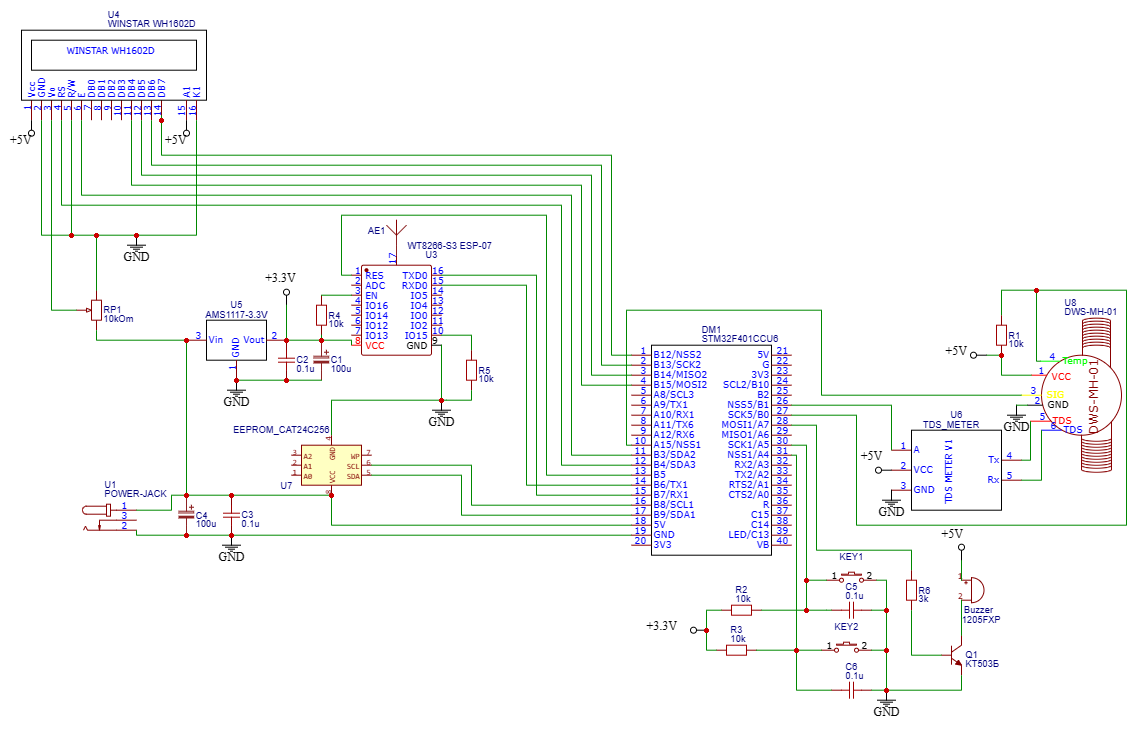
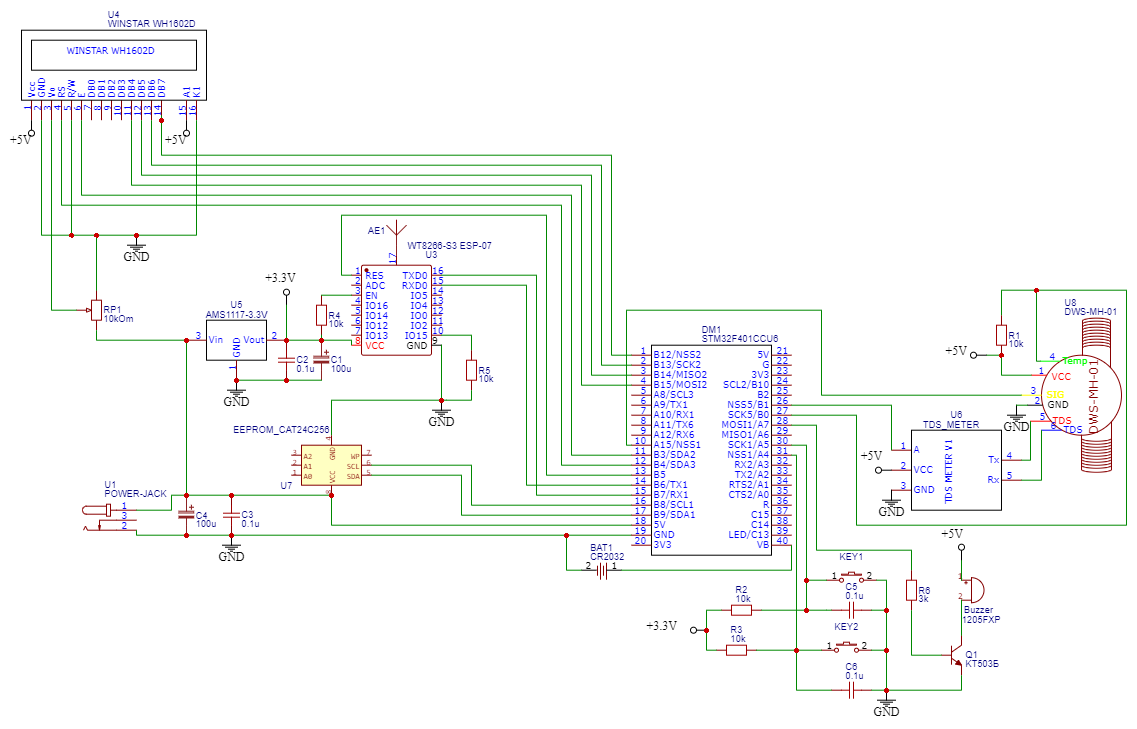
added pics and schematic

diff --git a/README.md b/README.md
@@ -1,0 +1,29 @@
+# STM32 based device, that measure utilisation of 10" water filters
+
+Device receives data from 3in1 sensor DWS-MH-01, measure temperature, TDS level and water flow through a 10" 3-stages water filter. Volume of consumed water is calculated for each filter separately.
+All the metrics are displayed on 2x16 LCD display and published via MQTT to HomeAssistant and can be used for notification about filter replacement necessity (this logic is on HA side).
+As far as we have TDS metric, replacement of softener filter can be alarmed by quality of water after the filter).
+
+Two hardware buttons are used for resetting Filter1, Filter2 and Filter3 consumption after replecament.
+
+# Used modules
+
+* BlackPill STM32F401 microcontroller
+* 3in1 DWS-MH-01 water sensor from Aliexpress
+* 2x16 LCD display (like WINSTAR WH1602D)
+* AT24C256 EEPROM for backup of filter consumptions values
+* AMS1117 Linear Voltage Regulator for powering ESP8266 module
+* ESP-07 Wi-Fi module
+* CR2032 battery holder for powering VBAT pin
+
+# Some features
+
+* 8x Hardware Timers are used for callback measure, display and publish procedures
+* **robtillaart/RunningAverage** filters fake values from temperature sensor
+* Since, consumption of water are long-term metrics here (months), actual value are stored in external EEPROM (once in a hour) and STM32 backup registry (every 10 min).
+* Auto-discovery is used for automatic configuration of sensor in HomeAssistant and grouping them in a single device entity
+* Although it is ESP8266 1MB moudle, firmware with AT 2.2.0 commands is used from **CytronTechnologies/esp-at-binaries** repository
+
+![Device module schematic](Schematic_Filter_meter.png)
+
+![3in1 water sensor ](DWS-MH-01.png)
